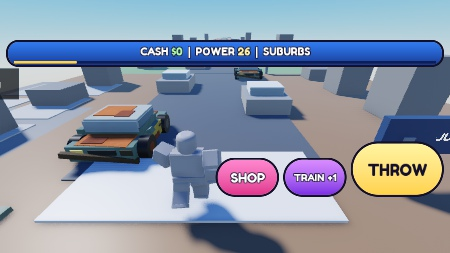
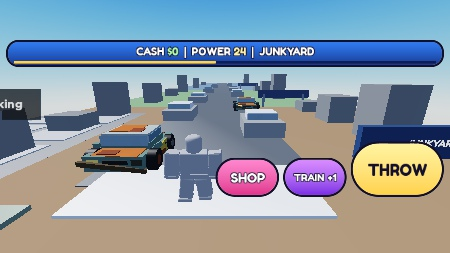
Reverify existing iteration 4b samples on fresh QA profile

diff --git a/games/ThrowTicketsAtCars/reports/2026-11-02_iteration4b.md b/games/ThrowTicketsAtCars/reports/2026-11-02_iteration4b.md
@@ -31,6 +31,15 @@ Sklep/HUD/Rusty Sedan v2 i balans: NOT FINAL, oczekują oceny użytkownika.
 - Rojo build PASS. Lokalna kopia miejsca obejmuje aktualne 12 źródeł i mapę.
 - Dowody: 2026-11-02_iteration4b_evidence.json; powtarzalna kontrola: tests/iteration4b.client.luau.
 
+## Powtórna weryfikacja po ponowieniu zlecenia, 02.11.2026
+- Potwierdzono 12/12 skryptów Studio zgodnych z folderem; poprawki z commit d32d82e były już obecne.
+- Świeży, osobny profil QA: 68 kontroli UI (23+23+22), wszystkie PASS. Postęp użytkownika pozostawiono z jego ostatniej sesji.
+- BUY/EQUIP Pink: Cash 100→0, Power 24, dystans 60. Kolor BUY pulsuje przy pokryciu, po zakupie puls gaśnie.
+- Wszystkie cztery wymagane stany oraz owned potwierdzone; po zamknięciu sklepu kamera obraca się o 38,57°, Custom.
+- Rusty Sedan v2: 36 części, Concrete, inne drzwi, zderzak -10°. Końcowe logi klient/serwer bez MessageError.
+- Cztery główne zrzuty telefonu poniżej odświeżono z nowego przebiegu; pozostałe zdjęcia pokazują tę samą próbkę 4b.
+- Wyniki dopisano do sekcji recheck w pliku evidence.json. Wygląd nadal NOT FINAL.
+
 ## Zrzuty do oceny
 ![HUD i widok drogi ze startu](2026-11-02_iteration4b_hud.jpg)
 ![Brak gotówki i blokada kolejności](2026-11-02_iteration4b_shop_no_cash.jpg)

diff --git a/games/ThrowTicketsAtCars/PROGRESS.md b/games/ThrowTicketsAtCars/PROGRESS.md
@@ -8,6 +8,7 @@
 - Rusty Sedan v2: 36 prymitywów, 0 meshes, duża rdza, inne drzwi, wgniecenie, krzywy zderzak, matowy lakier.
 - Tylko jeden projekt auta. Sklep/HUD/auto NOT FINAL, czekają na ocenę użytkownika.
 - Testy 4b: 65 asercji UI w 3 przebiegach, BUY/EQUIP, puls, TRAIN +1, THROW, laweta 2,57 s, kamera Touch 25,34°.
+- Ponowione zlecenie 02.11: 12/12 źródeł zgodnych, 68 kontroli UI na świeżym QA, BUY/EQUIP Pink 24→60, kamera 38,57°, 0 błędów; zrzuty telefonu odświeżone.
 - Logi końcowego przebiegu klient/serwer bez błędów gry. Zrzuty UI i auta blisko/daleko w raporcie.
 - Próba UI nie obejmuje swobodnego ruchu: zrzuty z nieruchomą postacią QA; obserwowano ruch emulatora przed klikami UI.
 - Poprzedni VERIFIED 4: 72 asercje i 14 scenariuszy; zapis Cash/Power/mandatów/parkingu z lease/token i osobnym _STUDIO.

diff --git a/games/ThrowTicketsAtCars/CURRENT_TASK.md b/games/ThrowTicketsAtCars/CURRENT_TASK.md
@@ -1,5 +1,6 @@
 # Current Task — iteracja 4b zakończona
 - Właściciel: Codex; 02.11.2026.
+- Ponowione zlecenie VERIFIED: 12/12 źródeł zgodnych ze Studio, 68 kontroli UI (23+23+22) na osobnym profilu QA; postęp użytkownika zachowany.
 - VERIFIED: emulator iPhone 7 poziomo 666×374, 3 przebiegi stanów sklepu / 65 asercji UI.
 - Sklep: tylko EQUIPPED zielony; dostępny zakup jasny+puls BUY; brak Cash normalny/czerwona cena.
 - Locked: przyciemnienie, kłódka i Buy <previous> first. Duża cena BUY zielona/czerwona, bez +0% luck.
